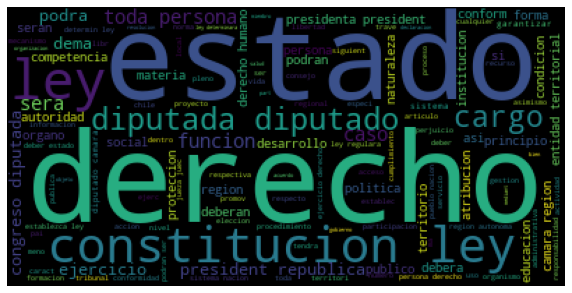
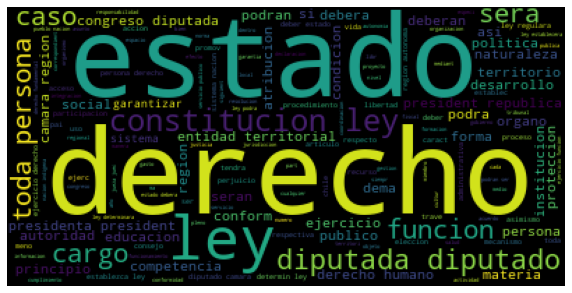
mejoras en codigo y creacion archivo funciones

diff --git a/proyecto_nueva_constitucion_chile.py b/proyecto_nueva_constitucion_chile.py
@@ -14,10 +14,9 @@ b) que al introducir un articulo indique el ámbito de la comisión al cual pert
 import pandas as pd
 import numpy as np
 
-####### NPL ########
-import re
-import nltk
-from nltk.stem import PorterStemmer
+from funciones import *
+
+####### BAG OF WORDS: normalización vector de palabras #######
 from sklearn.feature_extraction.text import  TfidfVectorizer
 
 ###### Graficos y visualizacion ########
@@ -51,93 +50,50 @@ data[['n_comision','nom_comision']] = data['Comisión'].str.split('-',expand=Tru
 data.head()
 data.drop(['Comisión'], axis=1, inplace=True)
 data.head()
-# %%
-#juntamos los articulos en 1 solo texto no sé porque XD
-texto = data.Texto.sum()
-texto
-# %%
-'descargamos los stopwords en español'
-nltk.download('stopwords') 
-sw=nltk.corpus.stopwords.words("spanish")
+
 sw.remove('estado')  # removemos la palabra estado de la lista de stopwords
-# %%
-'análisis EDA a través del uso del kit de NLTK'
-nltk.download('spanish_grammars')
 
 # %%
-'###### Funciones para de tratamiento de texto'
-#eliminamos simbolos . , : ; que no aportan para este analisis
-'''simbolos = ['.',',', ':' ,';','\'','(',')','&','#','%']
-for i in simbolos:
-    for j in data["Texto_tk"]:
-        try:
-            j.remove(i)
-        except:
-            continue'''
+'analizamos el texto completo sin limpieza de palabras'
+#juntamos los articulos en 1 solo texto
+texto = data.Texto.sum()
+tokens = nltk.word_tokenize(texto,"spanish")
 
-# función para quitar tildes
-def sin_tildes(s):
-    tildes = (
-        ("á", "a"),
-        ("é", "e"),
-        ("í", "i"),
-        ("ó", "o"),
-        ("ú", "u"),
-    )
-    for origen, destino in tildes:
-        s = s.replace(origen, destino)
-    return s
-
-# funcion para eliminar caracteres especiales, convierte todo a minúscula, quita tildes 
-def texto_limpio(texto):
-    texto = texto.lower() # convertir en minúsculas
-    texto = re.sub(r"[\W\d_]+", " ",texto) # remover caract especiales y números
-    texto = sin_tildes(texto) # remove tildes
-    #texto = texto.split() # tokenizar
-    #texto = [palabra for palabra in texto if len(palabra) > 3] # eliminar palabras con menos de 3 letras
-    #texto = [palabra for palabra in texto if palabra not in sw] # stopwords
-    #texto = " ".join(texto)
-    return texto
-
-# funcion para remover los stopwords y stemizar palabras tokenizadas dentro de una lista
-def quitar_stopwords(lista_tk):
-    stemmer = PorterStemmer()
-    tokens_limpios=[]
-    for token in lista_tk:
-        if token not in sw:
-            if len(token) > 1:
-                if token != "...":
-                    tokens_limpios.append(token)
-    return [stemmer.stem(word) for word in tokens_limpios]
+'riqueza lexica 10.7%'
+#tokens = data.Texto_tk.sum()
+palabras_totales = len(tokens) # calculo el total de palabras del texto
+palabras_unicas = set(tokens)  # creo objeto set de datos para tener palábras únicas
+palabras_diferentes = len(palabras_unicas) # calculo el total de palabras diferentes a partir del set de palabras
+riqueza_lexica = palabras_diferentes/palabras_totales # determino la riqueza léxica
+print('palabras totales',palabras_totales,'\n palabras diferentes',
+    palabras_diferentes,'\n riqueza lexica',riqueza_lexica)
 
 # %%
 '#### aplicamos las transformaciones para limpiar y generar tokens'
 data['Texto_limpio']= data['Texto'].astype(str)
 data['Texto_limpio'] = data['Texto'].apply(lambda texto: texto_limpio(texto)) 
-data["Texto_tk"] = data["Texto_limpio"].apply(lambda x:nltk.word_tokenize(x,"spanish"))
+data["Texto_limpio_tk"] = data["Texto_limpio"].apply(lambda x:nltk.word_tokenize(x,"spanish"))
 # data["Texto_tk"] = data["Texto_tk"].apply(lambda x: list(map(str.lower, x)))
 data.head()
 # %%
 'wordcloud texto tokenizado sin simbolos ni numeros'
-texto_tk = data.Texto_tk.sum()
+Texto_limpio_tk = data.Texto_limpio_tk.sum()
 texto_const= ''
-for i in texto_tk:
+for i in Texto_limpio_tk:
     texto_const=texto_const+' '+i
 
 texto_const_wc = WordCloud(background_color='black', max_words=len(texto_const), stopwords=sw)
 texto_const_wc.generate(texto_const)
 
-fig, ax = plt.subplots(figsize=(10,10))
+fig, ax = plt.subplots(figsize=(20,20))
 ax.imshow(texto_const_wc)
 ax.axis('off')
 plt.show()
 # %%
-texto_tk
-# %%
 'riqueza lexica baja 9.9%'
 #tokens = data.Texto_tk.sum()
-palabras_totales = len(texto_tk) # calculo el total de palabras del texto
-palabras_unicas = set(texto_tk)  # creo objeto set de datos para tener palábras únicas
+palabras_totales = len(Texto_limpio_tk) # calculo el total de palabras del texto
+palabras_unicas = set(Texto_limpio_tk)  # creo objeto set de datos para tener palábras únicas
 palabras_diferentes = len(palabras_unicas) # calculo el total de palabras diferentes a partir del set de palabras
 riqueza_lexica = palabras_diferentes/palabras_totales # determino la riqueza léxica
 print('palabras totales',palabras_totales,'\n palabras diferentes',
@@ -145,53 +101,84 @@ print('palabras totales',palabras_totales,'\n palabras diferentes',
 
 # %%
 'dispersion palabra más repetidas y determino los hapaxes'
-texto_nltk = nltk.Text(texto_tk) # lo convierto a objeto texto de nltk
-lista_palabras = ["ley","derechos","podrá","personas","estado"] # lista de palabras más repetidas 
-texto_nltk.dispersion_plot(lista_palabras) # grafico la dispersión dentro del texto de las palabras más repetidas
+texto_nltk = nltk.Text(Texto_limpio_tk) # lo convierto a objeto texto de nltk
 
-# %%
 # determino frecuencia de palababras
 distribucion = nltk.FreqDist(texto_nltk) # calculo la distribución de la frecuencia de palabras dentro del texto
 lista_frecuencias = distribucion.most_common() # mismo cálculo de distribución pero como tipo de objeto lista
+lista_frecuencias
+# %%
+nltk.FreqDist(nltk.Text(Texto_limpio_tk)).plot(20)
+
+# %%
+lista_palabras = ["ley","derechos","estado","constitucion","derecho"] # lista de palabras más repetidas 
+texto_nltk.dispersion_plot(lista_palabras) # grafico la dispersión dentro del texto de las palabras más repetidas
+
+# %%
 # determino los hapax 
 hapaxes = distribucion.hapaxes() # buscamos los hapaxses sobre el objeto nltk de distribución de palabras 
 for hapax in hapaxes: 
     print(hapax)
-len(hapaxes) #2042
+print('tamaños lista hapaxes:',len(hapaxes))#2042
+print('tamaño lista frecuencia palabras:',len(lista_frecuencias),'x',len(lista_frecuencias[0]))
+# %%
+'contexto de la palabra ser'
+texto_nltk.concordance("ser")
+
 # %%
 # creamos nueva columna sobre datos limpios, ahora sin stopwords
-data["Texto_tk_sw_lm"] = data["Texto_tk"].apply(lambda x: quitar_stopwords(x))
+sw.remove('estado')  # removemos la palabra estado de la lista de stopwords
+data["Texto_tk_sw"] = data["Texto_limpio_tk"].apply(lambda x: quitar_sw(x))
+# stemizamos las palabras y guardamos en nueva columna
+data["Texto_tk_sw_st"] = data["Texto_tk_sw"].apply(lambda x: stemizar_raiz(x))
+# stemizamos las palabras y guardamos en nueva columna
+data["Texto_tk_sw_lm"] = data["Texto_tk_sw"].apply(lambda x: lematizar(x))
 data.head()
 # %%
 # repetimos ejercicio ahora sobre columna sin stopwords y graficamos frecuencia
+texto_tk_sw = data.Texto_tk_sw.sum()
+texto_tk_sw_st = data.Texto_tk_sw_st.sum()
 texto_tk_sw_lm = data.Texto_tk_sw_lm.sum()
+nltk.FreqDist(nltk.Text(texto_tk_sw)).plot(10)
+nltk.FreqDist(nltk.Text(texto_tk_sw_st)).plot(10)
 nltk.FreqDist(nltk.Text(texto_tk_sw_lm)).plot(10)
+
+texto_const_st= ''
+for i in texto_tk_sw_st:
+    texto_const_st=texto_const_st+' '+i
+
+texto_const_lm= ''
+for i in texto_tk_sw_lm:
+    texto_const_lm=texto_const_lm+' '+i
+
 # %%
 'wordcloud de palabras sin stopwords y stemizado'
-
-texto_const_limpio= ''
-for i in texto_tk_sw_lm:
-    texto_const_limpio=texto_const_limpio+' '+i
-
-texto_const_limpio_wc = WordCloud(background_color='black', max_words=len(texto_const_limpio), stopwords=sw)
-texto_const_wc.generate(texto_const_limpio)
+texto_const_st_wc = WordCloud(background_color='black', max_words=len(texto_const_st), stopwords=sw)
+texto_const_st_wc.generate(texto_const_st)
 
 fig, ax = plt.subplots(figsize=(10,10))
-ax.imshow(texto_const_wc)
+ax.imshow(texto_const_st_wc)
 ax.axis('off')
 plt.show()
 # %%
-texto_const_limpio
+'wordcloud de palabras sin stopwords y lematizado'
+texto_const_lm_wc = WordCloud(background_color='black', max_words=len(texto_const_lm), stopwords=sw)
+texto_const_lm_wc.generate(texto_const_lm)
+
+fig, ax = plt.subplots(figsize=(10,10))
+ax.imshow(texto_const_lm_wc)
+ax.axis('off')
+plt.show()
 # %%
-'dispersion palabra más repetidas y determino los hapaxes'
-texto_nltk_swlm = nltk.Text(texto_tk_sw_lm) # lo convierto a objeto texto de nltk
+'dispersion palabra stemizadas más repetidas y determino los hapaxes'
+texto_nltk_st = nltk.Text(texto_tk_sw_st) # lo convierto a objeto texto de nltk
 # determino frecuencia de palababras
-distribucion = nltk.FreqDist(texto_nltk_swlm) # calculo la distribución de la frecuencia de palabras dentro del texto
+distribucion = nltk.FreqDist(texto_nltk_st) # calculo la distribución de la frecuencia de palabras dentro del texto
 lista_frecuencias = distribucion.most_common() # mismo cálculo de distribución pero como tipo de objeto lista
 lista_frecuencias
 # %%
-lista_palabras = ["ley","derecho","estado",'constitucion','region'] # lista de palabras más repetidas 
-texto_nltk_swlm.dispersion_plot(lista_palabras) # grafico la dispersión dentro del texto de las palabras más repetidas
+lista_palabras = ["ley","derech","estad",'ser','public','constitucion','podr','person','diput','regional','deber'] # lista de palabras más repetidas 
+texto_nltk_st.dispersion_plot(lista_palabras) # grafico la dispersión dentro del texto de las palabras más repetidas
 
 # %%
 # determino los hapax 
@@ -199,11 +186,9 @@ hapaxes = distribucion.hapaxes() # buscamos los hapaxses sobre el objeto nltk de
 for hapax in hapaxes: 
     print(hapax)
 len(hapaxes) #2042
-
-
 # %%
 '########## Vectorizamos ponderando peso de palabras por articulo ####################'
-data['Articulo_limpio'] = data["Texto_tk_sw_lm"].apply(lambda x: ' '.join(x)).values #convertimos en frase la lista de tokens para generar el vector
+data['Articulo_limpio'] = data["Texto_tk_sw_st"].apply(lambda x: ' '.join(x)).values #convertimos en frase la lista de tokens para generar el vector
 'armamos el bag of words'
 bag_articulos_limpios = np.array(data["Articulo_limpio"]) # convertimos token a array de palabras
 np.set_printoptions(precision=2)
@@ -234,14 +219,17 @@ plt.plot(np.cumsum(pca.explained_variance_ratio_))
 plt.xlabel('number of components')
 plt.ylabel('Explained variance')
 plt.show()
-
+# %%
 lista_PCA = [ 'PC'+str(i) for i in range(len(pca.components_)) ] # generamos la lista de nombres de componentes del PCA
 
 reduced_data = pca.transform(df2)  # aplicamos la transformación al dataframe de la matriz de palabras reduciendo la dimensionalidad
 reduced_data = pd.DataFrame(reduced_data, columns = lista_PCA) # agregamos nombre de las columnas asociadas a los componentes del PCA
-temp = data.reset_index() #df original reseteamos el indice para poder concatenar
-df3 = pd.concat([temp,reduced_data], axis=1) #concatenamos dataframe original con componentes
 
+# %%
+#temp = data.reset_index() #df original reseteamos el indice para poder concatenar
+# df3 = pd.concat([temp,reduced_data], axis=1) #concatenamos dataframe original con componentes
+df3 = pd.concat([data,df2], axis=1)
+df3.head()
 
 # %%
 '############ datos para train y test ###########'
@@ -269,7 +257,7 @@ df3["clase-dbscan"]=labels_dbscan
 data["clase-dbscan"]=labels_dbscan
 
 plt.figure(figsize=(8,6))
-sns.scatterplot(df2['ley'] , df2['estado'], hue = df2['clase-dbscan'], palette="Set2")
+sns.scatterplot(df2['ley'] , df2['derech'], hue = df2['clase-dbscan'], palette="Set2")
 plt.show()
 # %%
 'K-means'
@@ -302,8 +290,8 @@ plt.ylabel("Silhouette Coefficient")
 plt.show()
 # definimos el número de cluster sobre el valor más alto de la silhouette  
 # %%
-###### 7 clusters la 
-kmeans = KMeans(n_clusters=4)
+###### 6 clusters la 
+kmeans = KMeans(n_clusters=6)
 kmeans.fit(X)
 kmeans.predict(X)
 
@@ -316,8 +304,10 @@ df2['clase-kmeans'] = kmeans.labels_
 data["clase-kmeans"] = kmeans.labels_
 df3["clase-kmeans"] = kmeans.labels_
 plt.figure(figsize=(8,6))
-sns.scatterplot(df2['ley'] , df2['estado'], hue = df2['clase-kmeans'], palette="Set2")
+sns.scatterplot(df2['ley'] , df2['derech'], hue = df2['clase-kmeans'], palette="Set2")
 plt.show()
+# %%
+df_centroides
 # %%
 'cluster jerarquico'
 # construyo matriz de distancias
@@ -331,13 +321,13 @@ dendro = hierarchy.dendrogram(Z)
 plt.tick_params(axis='x', labelsize=8)
 # %%
 # elegimos el numero de clusters para aglomerar
-agglom = AgglomerativeClustering(n_clusters = 4, linkage = 'complete')
+agglom = AgglomerativeClustering(n_clusters = 6, linkage = 'complete')
 agglom.fit(X)
 df2['clase-jerarquico'] = agglom.labels_
 df3['clase-jerarquico'] = agglom.labels_
 data['clase-jerarquico'] = agglom.labels_
 
 plt.figure(figsize=(8,6))
-sns.scatterplot(df2['ley'] , df2['estado'], hue = df2['clase-jerarquico'], palette="Set2")
+sns.scatterplot(df2['ley'] , df2['estad'], hue = df2['clase-jerarquico'], palette="Set2")
 plt.show()
 # %%

diff --git a/funciones.py b/funciones.py
@@ -1,0 +1,75 @@
+####### NPL ########
+import re
+import nltk
+#from nltk.stem import PorterStemmer
+from nltk.stem.snowball import SnowballStemmer
+from nltk.stem import WordNetLemmatizer
+
+nltk.download('spanish_grammars')
+
+'descargamos los stopwords en español'
+nltk.download('stopwords')  # descargamos los stop words en español
+sw = nltk.corpus.stopwords.words("spanish")
+# sw.remove('estado')  # removemos la palabra estado de la lista de stopwords
+# sw.remove("no")
+
+lemmatizer = WordNetLemmatizer()
+stemmer = SnowballStemmer("spanish")
+#stemmer = PorterStemmer()
+
+'###### Funciones para de tratamiento de texto'
+
+# función para quitar tildes
+def sin_tildes(s):
+    tildes = (
+        ("á", "a"),
+        ("é", "e"),
+        ("í", "i"),
+        ("ó", "o"),
+        ("ú", "u"),
+    )
+    for origen, destino in tildes:
+        s = s.replace(origen, destino)
+    return s
+
+# funcion para eliminar caracteres especiales, convierte todo a minúscula, quita tildes 
+def texto_limpio(texto):
+    texto = texto.lower() # convertir en minúsculas
+    texto = re.sub(r"[\W\d_]+", " ",texto) # remover caract especiales y números
+    texto = sin_tildes(texto) # remove tildes
+    return texto
+
+def textotk_palabracorta(lista_tk):
+    #texto = texto.split() # tokenizar
+    lista_tk = [palabra for palabra in lista_tk if len(palabra) > 2] # eliminar palabras con menos de 3 letras
+    #texto = " ".join(texto)
+    return lista_tk
+
+def quitar_sw(lista_tk):
+    #texto = texto.split() # tokenizar
+    lista_tk = [palabra for palabra in lista_tk if palabra not in sw] # stopwords
+    #texto = " ".join(texto)
+    return lista_tk
+
+def stemizar_raiz(lista_tk):
+    #texto = texto.split() # tokenizar
+    lista_tk = [stemmer.stem(palabra) for palabra in lista_tk] #stem
+    #texto = " ".join(texto)
+    return lista_tk
+
+def lematizar(lista_tk):
+    #texto = texto.split() # tokenizar
+    lista_tk = [lemmatizer.lemmatize(palabra) for palabra in lista_tk] #stem
+    #texto = " ".join(texto)
+    return lista_tk
+
+# funcion para remover los stopwords y stemizar palabras tokenizadas dentro de una lista
+def quitar_stopwords(lista_tk):
+    stemmer = PorterStemmer()
+    tokens_limpios=[]
+    for token in lista_tk:
+        if token not in sw:
+            if len(token) > 2:
+                if token != "...":
+                    tokens_limpios.append(token)
+    return [stemmer.stem(word) for word in tokens_limpios]
